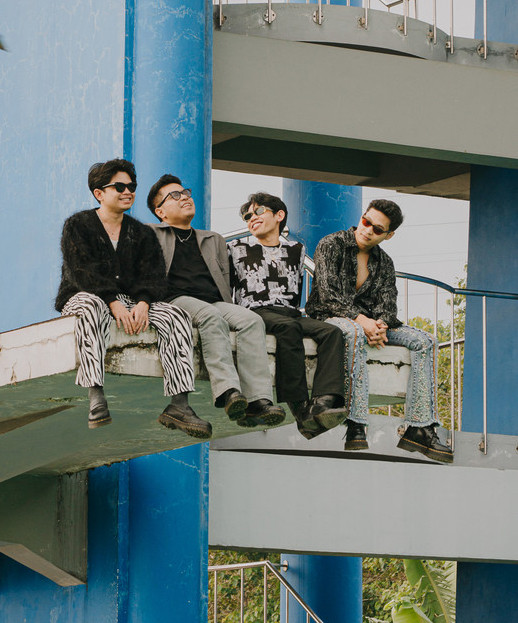
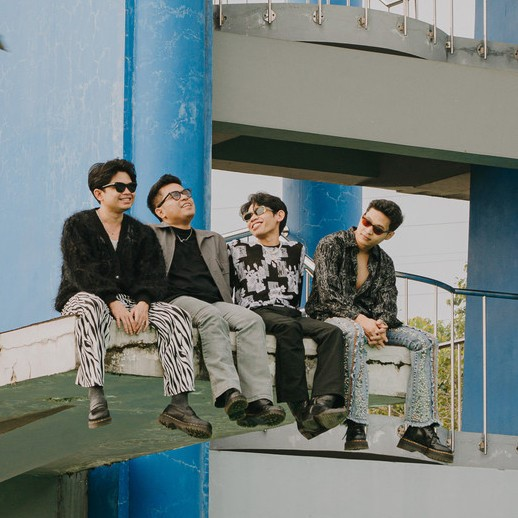
4-10-24(fixing bug)
done
-adding "overflow-y-scroll" for fixing the favorite artist section bug
-crop "Juicy Luicy" photo

diff --git a/src/App.vue b/src/App.vue
@@ -100,7 +100,7 @@
       </div>
       </div>
       <!-- main content -->
-        <div class="w-full h-full relative bg-zinc-900 z-0">
+        <div class="w-full h-full relative bg-zinc-900 z-0 overflow-y-scroll">
         <div class="w-full sticky top-0 p-2 flex items-center justify-between">
           <div class="flex items-center">
             <button class="rounded-full bg-black w-16 h-11 mr-1 text-white">
